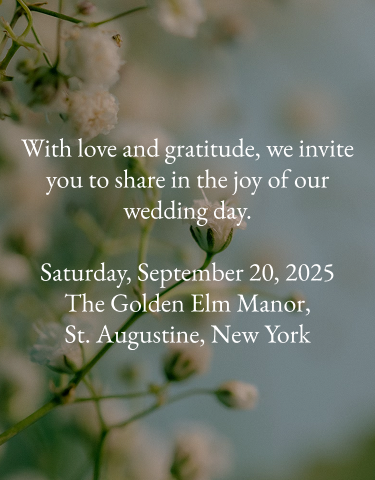
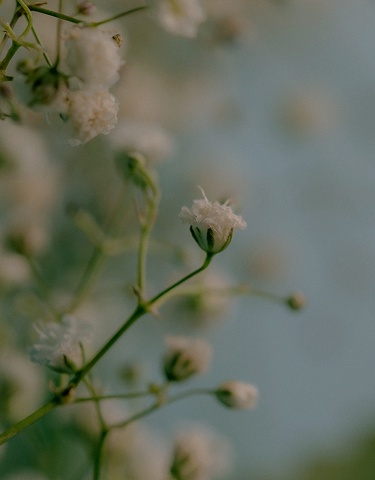
middle section done

Changed region(s): [[0.0587, 0.2812, 0.9387, 0.4688], [0.1173, 0.5312, 0.9093, 0.7188]]

diff --git a/scss/Home.css b/scss/Home.css
@@ -5,15 +5,38 @@
   font-size: 62.5%;
 }
 
-<<<<<<< HEAD
-.middle_container {
-  background-image: url(scss/assets/images/middle_bg.png);
-  height: 480px;
+.middle {
   width: 100%;
+  padding: 20px;
+  display: flex;
+  justify-content: center;
+  align-items: center;
+}
+.middle-container {
+  width: 100%;
+  max-width: 1290px;
+  height: 400px;
+  background-image: url(assets/images/middle_bg_1280.png);
+  background-size: cover;
+  background-position: center;
+  background-repeat: no-repeat;
+  display: flex;
+  justify-content: center;
+  align-items: center;
+}
+.middle-text {
+  max-width: 505px;
+  margin: 20px;
+  display: flex;
+  flex-direction: column;
+  gap: 20px;
+}
+.middle p {
+  color: white;
+  font-size: clamp(16px, 3vw, 30px);
+  text-align: center;
 }
 
-@media (max-width: 675px) {
-=======
 .btn {
   display: flex;
   flex-direction: column;
@@ -145,7 +168,6 @@
   .menu {
     display: none;
   }
->>>>>>> 71b43e28f20566cb855fa0009d212f1bfbac688c
   .nav {
     display: flex;
     width: 100%;

diff --git a/scss/layout/_middle.scss b/scss/layout/_middle.scss
@@ -1,5 +1,34 @@
-.middle_container {
-    background-image: url(scss/assets/images/middle_bg.png);
-    height:480px;
+.middle {
+    width:100%;
+    padding: 20px;
+    display:flex;
+    justify-content: center;
+    align-items: center;
+
+&-container {
     width: 100%;
+    max-width: 1290px;
+    height: 400px;
+    background-image: url(assets/images/middle_bg_1280.png);
+    background-size: cover;
+    background-position: center;
+    background-repeat: no-repeat;
+    display: flex;
+    justify-content: center;
+    align-items: center;
+}
+    &-text {
+        max-width: 505px;
+        margin:20px;
+        display:flex;
+        flex-direction: column;
+        //justify-content: center;
+        //align-items: center;
+        gap:20px;
+    }
+    p {
+        color: white;
+        font-size: clamp(16px, 3vw, 30px);
+        text-align: center;
+    }
 }

diff --git a/index.html b/index.html
@@ -63,9 +63,12 @@
             
             
     </header>
-     <section>
-        <div class=".middle_container">
-            
+     <section class="middle">
+        <div class="middle-container">
+            <div class="middle-text">
+                <p>With love and gratitude, we invite you to share in the joy of our wedding day.</p>
+                <p>Saturday, September 20, 2025The Golden Elm Manor,St. Augustine, New York</p>
+            </div>
         </div>
      </section> 
 

diff --git a/scss/Home.scss b/scss/Home.scss
@@ -2,7 +2,7 @@
 @use "base/reset";
 @use "abstracts/colors";
 @use "layout/middle";
-@media (max-width:675px);
+//@media (max-width:675px)
 @use "components/buttons";
 @use "abstracts/mixins";
 